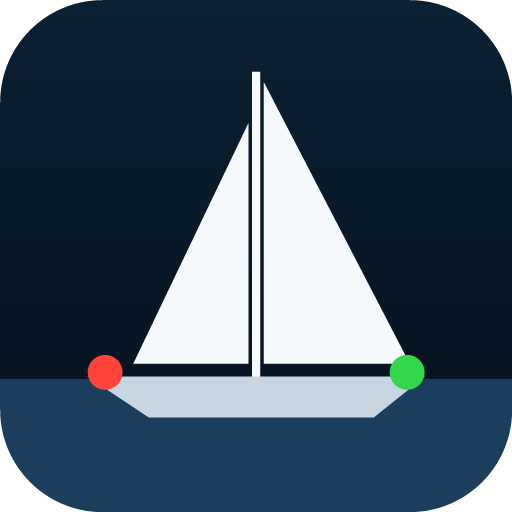
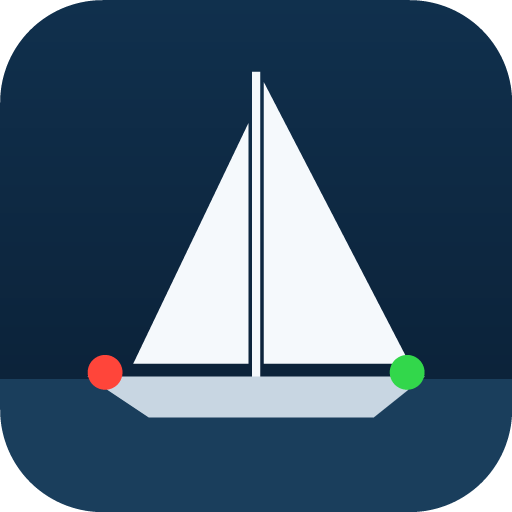
Aufnahme starten, App-Symbol durchgehend blau, Formfarben folgen dem Schema
Drei Kleinigkeiten.

Der Aufnahmeknopf heißt jetzt „Aufnahme starten“ und „Aufnahme beenden“,
nicht mehr „Aufnehmen“ – das sagt, was passiert, und nicht, was man tut.

Das App-Symbol lief nach unten in ein Fast-Schwarz aus und sah auf dem
Home-Bildschirm zwischen den übrigen Symbolen aus wie ein Loch. Der Verlauf
bleibt jetzt durchgehend dunkelblau; nachgemessen wird das an der erzeugten
Bilddatei selbst.

Und was der Browser selbst zeichnet, weiß jetzt vom Schema: Platzhalter,
Schreibmarke, Auswahlbalken, die Pfeile einer Auswahlliste. Ohne
`color-scheme` nimmt er dafür seine hellen Voreinstellungen und setzt weiße
und graue Flecken in eine Oberfläche, die sonst durchgehend rot auf schwarz
ist. Zusammen mit der Platzhalterfarbe aus dem vorigen Stand ist der
Nachtmodus damit lückenlos langwellig.

293 Rauchtestprüfungen, 107 Rechenprüfungen. Service Worker auf v17.

Claude-Session: https://claude.ai/code/session_01APAz8pQgKmiaoowzaDX9jp

diff --git a/js/lib/i18n.js b/js/lib/i18n.js
@@ -338,13 +338,13 @@ const DE = {
   'radio.missingData.text': 'Trag Bootsname und MMSI unter „Einstellungen“ ein – dann stehen sie in jedem Funkspruch schon drin.',
   'radio.heading': 'Funksprüche zum Vorlesen',
   'radio.phraseLang': 'Sprache der Funksprüche',
-  'radio.recordings': 'Meldung aufnehmen',
+  'radio.recordings': 'Aufnahme starten',
   'radio.recHint': 'Eine empfangene Meldung ist oft schneller vorbei, als man mitschreiben kann. Aufnehmen und hinterher in Ruhe abhören. Alles bleibt im Gerät.',
   'radio.recTeaser': 'Meldung mitschneiden und in Ruhe abhören – bleibt im Gerät.',
-  'radio.recStart': '⏺ Aufnehmen',
+  'radio.recStart': 'Aufnahme starten',
   'radio.recPlay': 'Abspielen',
   'radio.recSeek': 'Stelle in der Aufnahme',
-  'radio.recStop': '⏹ Beenden und speichern',
+  'radio.recStop': 'Aufnahme beenden und speichern',
   'radio.recDiscard': 'Verwerfen',
   'radio.recRunning': 'Aufnahme läuft',
   'radio.recEmpty': 'Noch keine Aufnahme gespeichert.',
@@ -985,13 +985,13 @@ const EN = {
   'radio.missingData.text': 'Enter the vessel name and MMSI under “Settings” – they are then filled into every call automatically.',
   'radio.heading': 'Radio calls to read out',
   'radio.phraseLang': 'Language of the radio calls',
-  'radio.recordings': 'Record a message',
+  'radio.recordings': 'Start a recording',
   'radio.recHint': 'A message on the radio is often over before you can write it down. Record it and listen back in peace. Everything stays on the device.',
   'radio.recTeaser': 'Catch a message and listen back in peace – it stays on the device.',
-  'radio.recStart': '⏺ Record',
+  'radio.recStart': 'Start recording',
   'radio.recPlay': 'Play',
   'radio.recSeek': 'Position in the recording',
-  'radio.recStop': '⏹ Stop and save',
+  'radio.recStop': 'Stop and save the recording',
   'radio.recDiscard': 'Discard',
   'radio.recRunning': 'Recording',
   'radio.recEmpty': 'No recording saved yet.',

diff --git a/css/style.css b/css/style.css
@@ -70,6 +70,18 @@
   --glow: 0;
 }
 
+/*
+ * Was der Browser selbst zeichnet, muss vom Schema wissen.
+ *
+ * Platzhalter, Schreibmarke, Auswahlbalken, die Pfeile einer Auswahlliste, die
+ * Bedienung eines Datumsfelds: All das malt der Browser, nicht dieses
+ * Stylesheet. Ohne diese Zeile nimmt er dafür die hellen Voreinstellungen und
+ * setzt weiße und graue Flecken in eine Oberfläche, die sonst durchgehend rot
+ * auf schwarz ist – und im Nachtmodus kostet jeder davon Dunkeladaption.
+ */
+:root { color-scheme: light; }
+[data-theme="dark"], [data-theme="night"] { color-scheme: dark; }
+
 /* ---------------------------------------------------------------- Grundlage */
 
 * { box-sizing: border-box; }

diff --git a/sw.js b/sw.js
@@ -15,7 +15,7 @@
  * funktioniert (etwa unter …github.io/Sailing-Buddy/).
  */
 
-const VERSION = 'v16';
+const VERSION = 'v17';
 const CACHE = `sailing-buddy-${VERSION}`;
 
 const ASSETS = [

diff --git a/tools/make-icons.py b/tools/make-icons.py
@@ -15,8 +15,11 @@ from pathlib import Path
 
 OUT = Path(__file__).resolve().parent.parent / "icons"
 
-BG_TOP = (11, 32, 51)       # tiefes Marineblau
-BG_BOTTOM = (5, 16, 28)
+# Durchgehend dunkelblau. Der frühere Verlauf lief unten nach (5, 16, 28) aus,
+# und das liest sich auf dem Home-Bildschirm nicht mehr als Blau, sondern als
+# Schwarz – zwischen den übrigen Symbolen sah das Feld aus wie ein Loch.
+BG_TOP = (16, 48, 77)       # tiefes Marineblau
+BG_BOTTOM = (10, 30, 51)
 SAIL = (245, 249, 252)
 HULL = (200, 214, 226)
 PORT = (255, 69, 58)        # rot, Backbord
